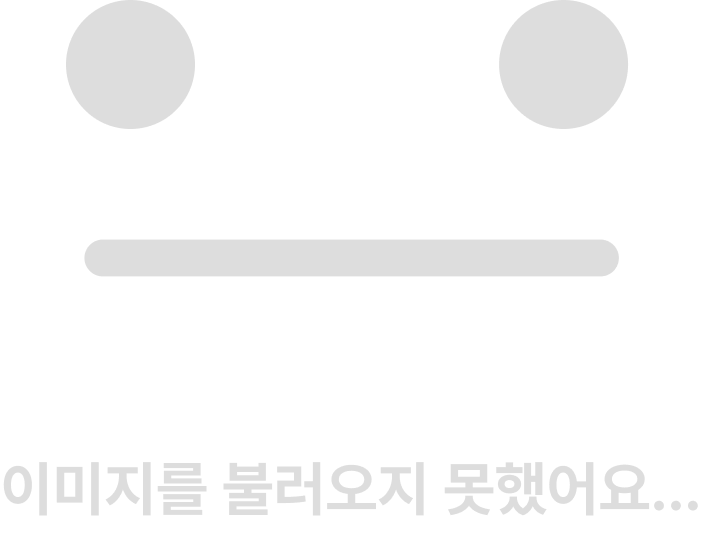
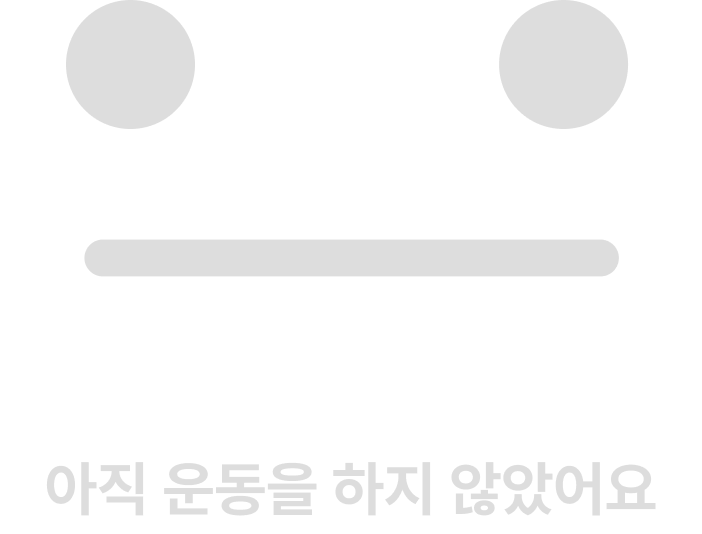
feat: 게시물 없을 때 사진 변경

Changed region(s): [[0.0, 0.8689, 1.0, 0.9888]]

diff --git a/components/PostGrid.tsx b/components/PostGrid.tsx
@@ -28,7 +28,7 @@ export default function PostGrid({ posts, isError }: PostGridProps) {
           source={images.ErrorPost}
           className="h-[178px] w-[234px]"
           resizeMode="contain"
-          accessibilityLabel="이미지를 불러오지 못했습니다."
+          accessibilityLabel="게시물을 불러오지 못했습니다."
           accessibilityRole="image"
         />
       </View>
